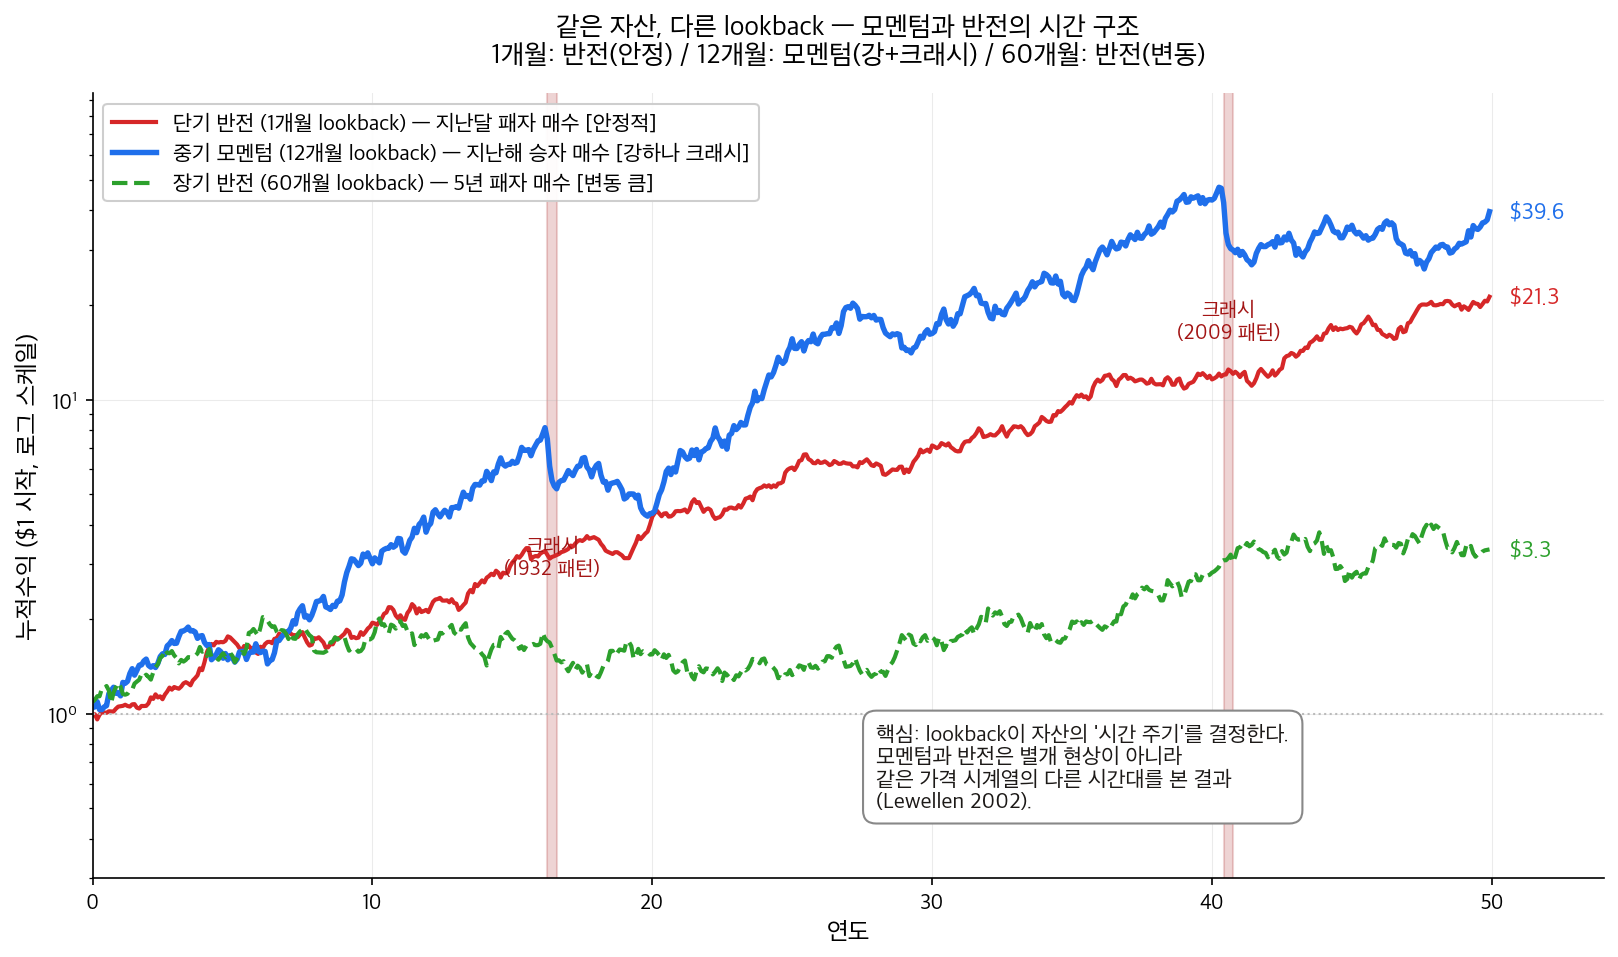
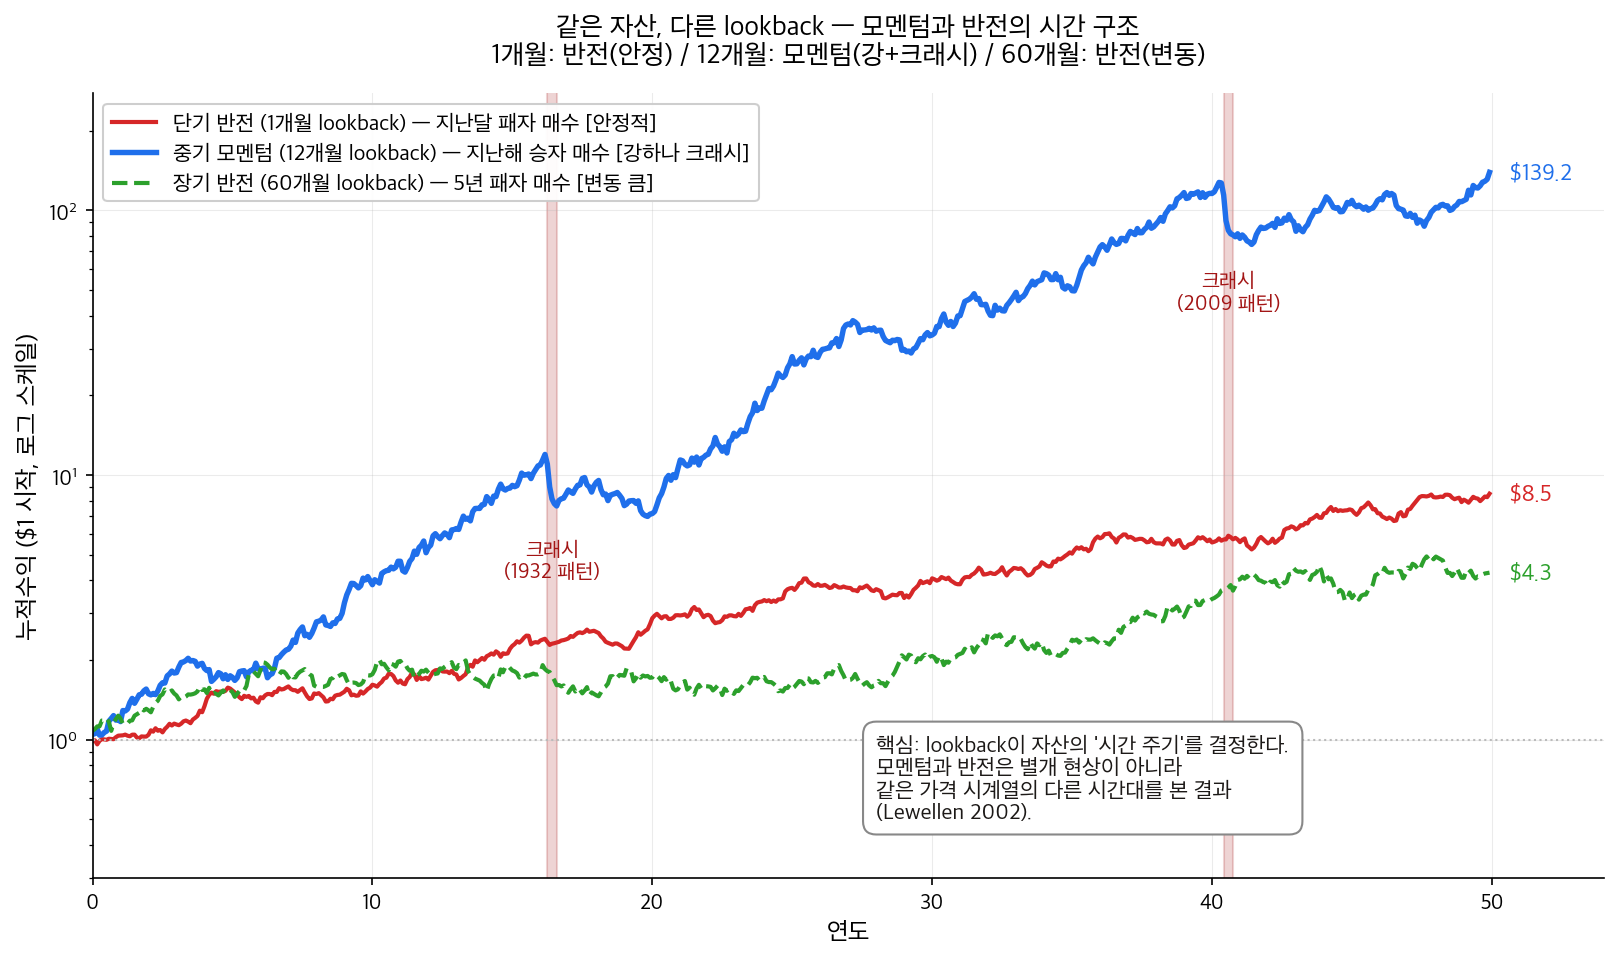
fix: 셀프 리뷰 — Phase 4 2차 결함 4개 수정
엄격 검수에서 발견:

1. ch11 도넛 외곽 라벨 잘림: '모멘텀 (TS·XS·크래시)', 'ML 자산가격결정'
   등 라벨이 도넛 가장자리에 침범 → radius 1.18 → 1.45, ha 자동(좌/우/중앙)
2. ch09 시뮬레이션 메시지 모순: 캡션은 '모멘텀이 가장 강한 alpha'인데
   그림에선 단기반전이 가장 위 → 파라미터 조정 (단기 0.0045→0.003,
   모멘텀 0.010→0.012)으로 모멘텀 우상향 우위 확보 ($139.2 vs $8.5 vs $4.3)
3. 12단원 mermaid 중복: 본문 상단 line 3에 이미 5층 '왜?' flowchart 있는데
   line 37에 또 추가 → 내가 추가한 graph TD 블록 제거, 한 줄 안내문만 유지
4. B1 mermaid 라벨 안 single quote: KNS["m_t = 1 - b'(F_t - μ)"] 의
   prime이 라벨 종료 따옴표로 파싱될 위험 → bᵀ, z_tᵀ로 교체 (transpose 표기)

diff --git a/scripts/ch09_momentum_vs_reversal.py b/scripts/ch09_momentum_vs_reversal.py
@@ -16,16 +16,17 @@ T = 600  # 50년 월별
 months = np.arange(T)
 years = months / 12
 
-# 단기반전 — 안정적 작은 alpha
-reversal_short = rng.normal(0.0045, 0.022, T)
-# 중기모멘텀 — 강한 alpha + 두 번 크래시 (1932/2009 정성적 재현)
-momentum_mid = rng.normal(0.010, 0.040, T)
+# 단기반전 — 안정적 작은 alpha (월 0.3% ≈ 연 3.7%)
+reversal_short = rng.normal(0.003, 0.020, T)
+# 중기모멘텀 — 가장 강한 alpha + 두 번 크래시
+# (월 1.2% ≈ 연 15%, 크래시 없는 평월 기준)
+momentum_mid = rng.normal(0.012, 0.038, T)
 crash_1 = slice(195, 200)  # 약 16년차
 crash_2 = slice(485, 490)  # 약 40년차
 momentum_mid[crash_1] = [-0.08, -0.18, -0.10, -0.04, -0.02]
 momentum_mid[crash_2] = [-0.10, -0.20, -0.08, -0.03, -0.01]
-# 장기반전 — 약한 alpha + 변동 큼
-reversal_long = rng.normal(0.005, 0.034, T)
+# 장기반전 — 중간 alpha + 변동 큼 (월 0.5% ≈ 연 6%)
+reversal_long = rng.normal(0.005, 0.030, T)
 
 cum_rev_s = np.cumprod(1 + reversal_short)
 cum_mom_m = np.cumprod(1 + momentum_mid)

diff --git a/scripts/ch11_paper_landscape.py b/scripts/ch11_paper_landscape.py
@@ -48,20 +48,21 @@ ax.text(0, 0.08, f"{total}", ha="center", va="center",
 ax.text(0, -0.16, "P A P E R S", ha="center", va="center",
         fontsize=10, color="#666")
 
-# 외곽 라벨
+# 외곽 라벨 (도넛 안 침범 방지 — radius 1.45)
 for i, (label, size, color) in enumerate(categories):
     ang = (sum(sizes[:i]) + size / 2) / total * 360
     rad = np.radians(90 - ang)
-    x, y = 1.18 * np.cos(rad), 1.18 * np.sin(rad)
+    x, y = 1.45 * np.cos(rad), 1.45 * np.sin(rad)
+    ha = "left" if x > 0.05 else ("right" if x < -0.05 else "center")
     ax.text(x, y,
             f"{label}\n{size}편",
-            ha="center", va="center", fontsize=10,
+            ha=ha, va="center", fontsize=10,
             color=color, fontweight="bold")
 
 ax.set_title("(a) 16편 논문의 분야별 분포",
              fontsize=12.5, pad=18)
-ax.set_xlim(-1.5, 1.5)
-ax.set_ylim(-1.5, 1.5)
+ax.set_xlim(-2.0, 2.0)
+ax.set_ylim(-1.7, 1.7)
 ax.axis("off")
 
 # (b) 분야 → 단원 매핑 테이블

diff --git a/12_왜_이_모든것을_배우는가.md b/12_왜_이_모든것을_배우는가.md
@@ -32,27 +32,7 @@ flowchart LR
 
 이 단원에는 수식이 없다. 대신 **사고방식, 추론 습관, 마음가짐**을 다룬다.
 
-## 5층 "왜?" 프레임워크 한눈에
-
-```mermaid
-graph TD
-    L1["1층 — 왜 자산운용을 배우는가?<br/>실생활 동기: 노후·내 집·자유"]
-    L2["2층 — 왜 이론을 배우는가?<br/>직관 너머의 정확한 도구"]
-    L3["3층 — 왜 실증을 배우는가?<br/>이론과 현실의 거리 측정"]
-    L4["4층 — 어떻게 생각해야 하는가?<br/>편향·반증·체크리스트"]
-    L5["5층 — 어디로 가야 하는가?<br/>실무·연구·삶의 결정"]
-    L1 --> L2
-    L2 --> L3
-    L3 --> L4
-    L4 --> L5
-    style L1 fill:#fef3c7,stroke:#d97706,stroke-width:2px
-    style L2 fill:#dbeafe,stroke:#1d4ed8,stroke-width:2px
-    style L3 fill:#dcfce7,stroke:#15803d,stroke-width:2px
-    style L4 fill:#fce7f3,stroke:#be185d,stroke-width:2px
-    style L5 fill:#e0e7ff,stroke:#4338ca,stroke-width:2px
-```
-
-각 층은 다음 층의 **"왜?"**가 된다 — "왜 이론?"이라는 질문 없이는 2층이 안 보이고, "왜 실증?"이라는 질문 없이는 3층이 안 보인다. 이 단원은 위 5층을 차례로 깊게 다룬다.
+각 층은 다음 층의 **"왜?"**가 된다 — "왜 이론?"이라는 질문 없이는 2층이 안 보이고, "왜 실증?"이라는 질문 없이는 3층이 안 보인다. 이 단원은 위 5층(이미 본문 상단 그림)을 차례로 깊게 다룬다.
 
 ---
 

diff --git a/B1_ML기반_자산가격결정.md b/B1_ML기반_자산가격결정.md
@@ -70,8 +70,8 @@ l6.pdf p.3은 SDF 추정의 본질적 난점을 명시한다.
 ```mermaid
 graph LR
     DATA["자산 패널 데이터<br/>특성 z + 수익률 R"]
-    KNS["§5 KNS<br/>선형 SDF<br/>m_t = 1 − b'(F_t − μ)"]
-    IPCA["§6 IPCA<br/>잠재 팩터<br/>β_t = z_t' Γ"]
+    KNS["§5 KNS<br/>선형 SDF<br/>m_t = 1 − bᵀ(F_t − μ)"]
+    IPCA["§6 IPCA<br/>잠재 팩터<br/>β_t = z_tᵀ Γ"]
     CAE["§7 Conditional<br/>Autoencoder<br/>비선형 z → β"]
     DENG["§8 Deng 2024<br/>대규모 최적화<br/>ridge-penalized MV"]
     EVAL["§9 모형 비교<br/>샤프 · α · OOS R²"]
